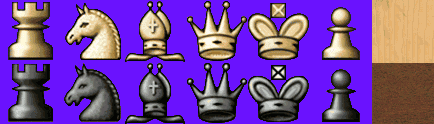
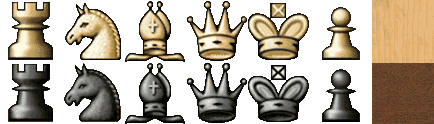
setMask() commented out, theme files edited
git-svn-id: https://svn.code.sf.net/p/chessx/code/trunk@104 1de841de-8530-0410-b3ab-d372fa6ee214

diff --git a/src/gui/boardtheme.cpp b/src/gui/boardtheme.cpp
@@ -111,7 +111,13 @@ bool BoardTheme::load(const QString& themeFile)
         maskImage.setPixel(i, j, opaque);
   QBitmap mask;
   mask.convertFromImage(maskImage);
-  big.setMask(mask);
+
+
+  /* 30/11/2005: setMask() commented out /Ejner
+   * by Qt4 it worked unpredictably and with different results on different
+   * platforms. Instead the eboard themes were edited, clearing the background
+   * behind the pieces (Gimp: Select by color + Edit -> clear).*/
+  //big.setMask(mask);
 
   /* Cut big theme bitmap into separate pieces */
   for (int i = 0; i<ConstPieceTypes; i++)
